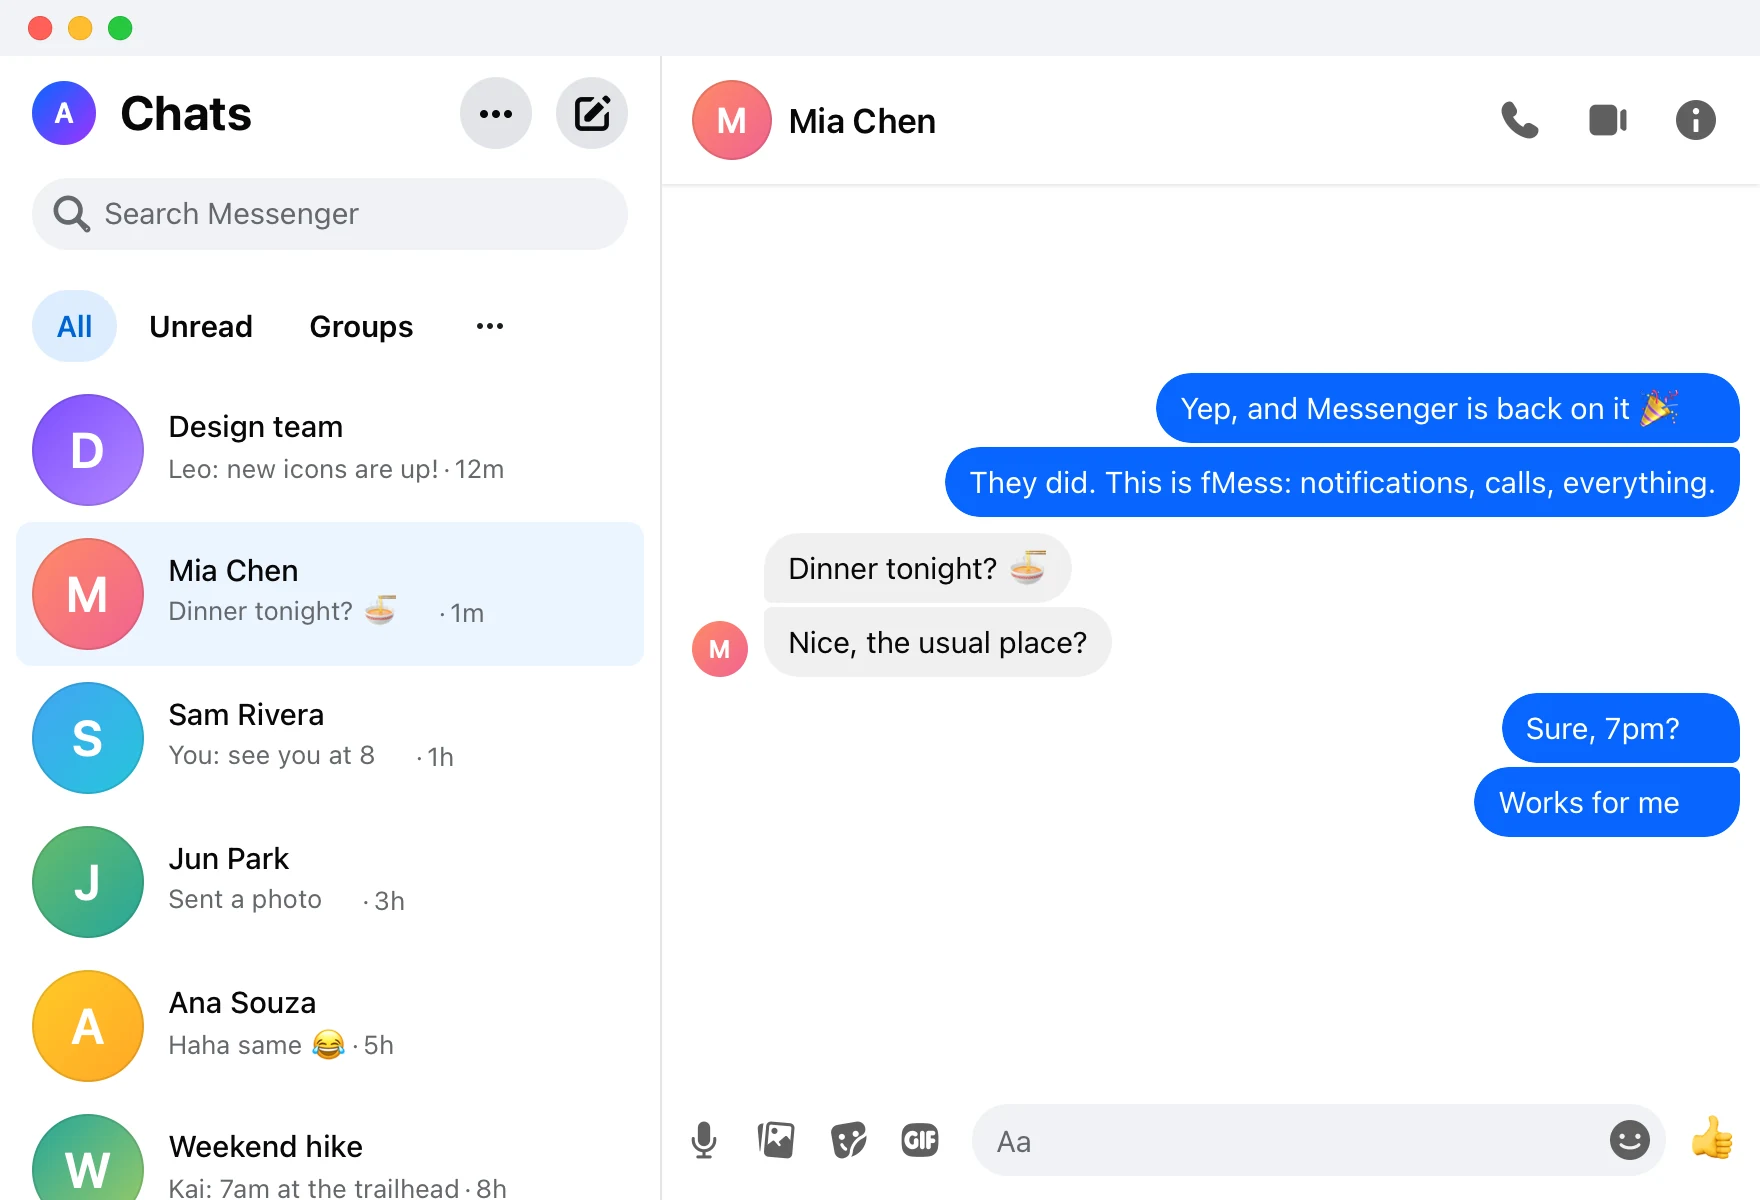
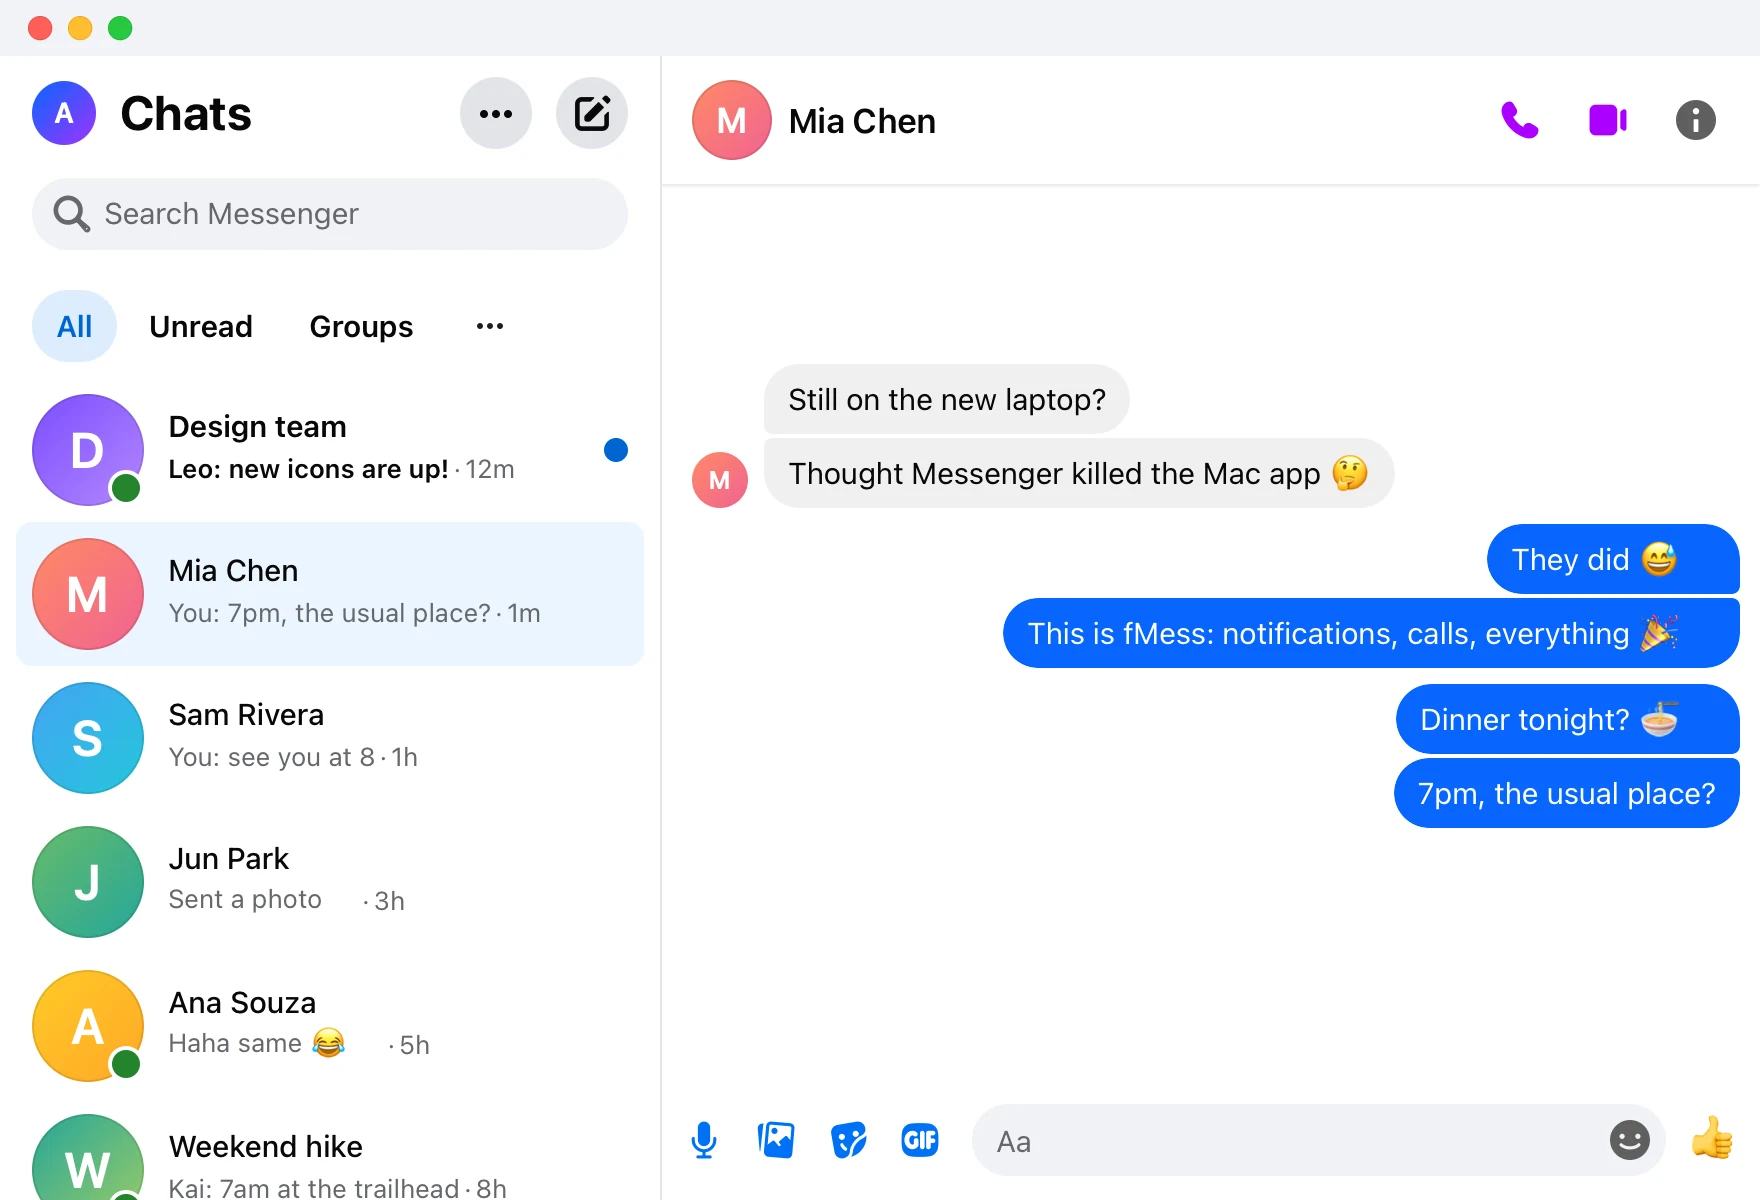
Website: a sliding carousel of the looks, in the page's language
The hero's screenshots slide from Messenger's look to Zalo's and
WhatsApp's and round again, with a bar under the look shown counting down
to the next; the pointer over them holds the turn and a swipe moves it.
The Vietnamese page shows the same chat in Vietnamese. The caption is
rewritten.

diff --git a/site/assets/site.js b/site/assets/site.js
@@ -30,7 +30,7 @@ const TRANSLATIONS = {
     shot_zalo: "Cùng đoạn chat đó với theme Zalo của fMess",
     shot_whatsapp: "Cùng đoạn chat đó với theme WhatsApp của fMess",
     themes_label: "Giao diện",
-    shot_note: "Một đoạn chat, ba giao diện. Ảnh chụp thật, tên đặt cho vui.",
+    shot_note: "Cùng một cuộc trò chuyện, 3 “bộ cánh”: Messenger, Zalo hay WhatsApp chỉ cách nhau một cú click. Ảnh chụp thực tế từ fMess.",
     mock_chats: "Đoạn chat",
     mock_search: "Tìm kiếm trên Messenger",
     mock_dinner: "Tối nay đi ăn không? 🍜",
@@ -167,6 +167,7 @@ const setLanguage = (language) => {
       el.setAttribute(attribute, words[el.dataset[key]] ?? english.get(el)[id]);
     }
   }
+  for (const img of document.querySelectorAll('img[data-shot]')) img.src = `assets/shot-${img.dataset.shot}${language === 'vi' ? '-vi' : ''}.webp`;
   // A page names its own title and description keys (data-title, data-description on body).
   const page = document.body.dataset;
   if (!english.has(document)) english.set(document, document.title);
@@ -242,26 +243,62 @@ document.addEventListener('click', (event) => {
 });
 
 
-// The hero's screenshots: Messenger's look, then the themes, in turn, unless
-// the visitor's system asks for less motion. Pressing a look shows it and
-// stops the turns.
+// The hero's screenshots, a carousel: Messenger's look, then the themes, one
+// sliding in after another (not when the visitor's system asks for less
+// motion). A look's button shows it; the pointer over the pictures holds the
+// turn; a swipe goes forwards or back.
 const shot = document.querySelector('.shot');
 if (shot) {
-  const frames = [...shot.querySelectorAll('.frame')];
+  const DWELL = 4000;
+  const track = shot.querySelector('.track');
+  const looks = track.children.length;
+  // A copy of the first look after the last, so the turn back to it slides on.
+  track.append(track.children[0].cloneNode(true));
   const buttons = [...shot.querySelectorAll('.looks button')];
-  let current = 0;
-  const show = (index) => {
-    current = index;
-    frames.forEach((frame, i) => frame.classList.toggle('on', i === index));
-    buttons.forEach((button, i) => button.setAttribute('aria-pressed', String(i === index)));
+  const still = matchMedia('(prefers-reduced-motion: reduce)').matches;
+  shot.style.setProperty('--dwell', `${DWELL}ms`);
+  let index = 0;
+  let timer = null;
+  const show = (to) => {
+    index = to;
+    track.style.transform = `translateX(${-100 * to}%)`;
+    [...track.children].forEach((img, i) => img.classList.toggle('on', i === to));
+    buttons.forEach((button, i) => {
+      button.setAttribute('aria-pressed', String(i === to % looks));
+      button.classList.remove('run');
+    });
+    if (still || shot.classList.contains('paused')) return;
+    // Restart the bar under the look shown.
+    void buttons[to % looks].offsetWidth;
+    buttons[to % looks].classList.add('run');
+    clearTimeout(timer);
+    timer = setTimeout(() => show(index + 1), DWELL);
   };
-  const turns = matchMedia('(prefers-reduced-motion: reduce)').matches ? null : setInterval(() => show((current + 1) % frames.length), 3500);
-  buttons.forEach((button, i) =>
-    button.addEventListener('click', () => {
-      clearInterval(turns);
-      show(i);
-    }),
-  );
+  track.addEventListener('transitionend', (event) => {
+    if (event.target !== track || index !== looks) return;
+    track.classList.add('snap');
+    show(0);
+    void track.offsetWidth;
+    track.classList.remove('snap');
+  });
+  buttons.forEach((button, i) => button.addEventListener('click', () => show(i)));
+  const viewport = shot.querySelector('.viewport');
+  viewport.addEventListener('pointerenter', () => {
+    shot.classList.add('paused');
+    clearTimeout(timer);
+  });
+  viewport.addEventListener('pointerleave', () => {
+    shot.classList.remove('paused');
+    show(index % looks);
+  });
+  let from = null;
+  viewport.addEventListener('pointerdown', (event) => (from = event.clientX));
+  viewport.addEventListener('pointerup', (event) => {
+    const moved = from === null ? 0 : event.clientX - from;
+    from = null;
+    if (Math.abs(moved) > 40) show(((index % looks) + (moved < 0 ? 1 : looks - 1)) % looks);
+  });
+  show(0);
 }
 
 // Motion (motion.dev, assets/vendor): the hero plays in, sections rise as
@@ -280,7 +317,7 @@ function playMotion({ animate, inView, hover, press, stagger, spring }) {
   // The hero: the words, then the app.
   animate('.hero .eyebrow, .hero h1, .hero .lead, .hero .cta, .hero .meta', rise, { duration: 0.9, ease, delay: stagger(0.08) });
   animate('.shot', { opacity: [0, 1], y: [36, 0], scale: [0.97, 1] }, { duration: 1.1, ease, delay: 0.25 }).then(() =>
-    forever('.shot .frames', { y: [0, -8, 0] }, 8),
+    forever('.shot .viewport', { y: [0, -8, 0] }, 8),
   );
 
   // Sections rise as they come into view; the items of a list follow one another.

diff --git a/site/assets/site.css b/site/assets/site.css
@@ -79,14 +79,21 @@ h1 { font-size: clamp(44px, 6.2vw, 76px); line-height: 1.02; letter-spacing: -0.
 .stage { position: relative; }
 .stage::before { content: ""; position: absolute; inset: 8% -10% -6% 6%; background: var(--ink); filter: blur(90px); opacity: 0.28; border-radius: 50%; z-index: 0; }
 .shot { position: relative; z-index: 1; margin: 0; }
-.frames { position: relative; aspect-ratio: 880 / 600; border-radius: 12px; overflow: hidden; background: #fff; box-shadow: var(--shadow); border: 1px solid var(--line); }
-.frame { position: absolute; inset: 0; width: 100%; height: 100%; display: block; opacity: 0; transition: opacity 0.6s ease; }
-.frame.on { opacity: 1; }
-.shot figcaption { margin-top: 16px; display: flex; flex-wrap: wrap; align-items: center; justify-content: center; gap: 8px 14px; }
+.viewport { position: relative; aspect-ratio: 880 / 600; border-radius: 12px; overflow: hidden; background: #fff; box-shadow: var(--shadow); border: 1px solid var(--line); touch-action: pan-y; }
+.track { display: flex; height: 100%; transition: transform 0.9s cubic-bezier(0.65, 0, 0.35, 1); }
+.track img { flex: 0 0 100%; width: 100%; height: 100%; display: block; user-select: none; -webkit-user-drag: none; transform: scale(0.92); opacity: 0.55; transition: transform 0.9s cubic-bezier(0.65, 0, 0.35, 1), opacity 0.9s; }
+.track img.on { transform: none; opacity: 1; }
+/* Back to the first look without anyone seeing the jump. */
+.track.snap, .track.snap img { transition: none; }
+.shot figcaption { margin-top: 16px; display: flex; flex-direction: column; align-items: center; gap: 10px; text-align: center; }
 .looks { display: inline-flex; gap: 4px; padding: 4px; border-radius: 999px; background: var(--bg-soft); border: 1px solid var(--line); }
-.looks button { font: inherit; font-size: 13px; font-weight: 600; padding: 6px 14px; border: 0; border-radius: 999px; background: transparent; color: var(--muted); cursor: pointer; }
+.looks button { position: relative; overflow: hidden; font: inherit; font-size: 13px; font-weight: 600; padding: 6px 14px; border: 0; border-radius: 999px; background: transparent; color: var(--muted); cursor: pointer; }
 .looks button[aria-pressed="true"] { background: var(--card); color: var(--text); box-shadow: 0 1px 3px rgba(20, 20, 40, 0.15); }
-.shot-note { font-size: 13px; color: var(--muted); }
+/* How long until the next look. */
+.looks button.run::after { content: ""; position: absolute; left: 14px; right: 14px; bottom: 3px; height: 2px; border-radius: 1px; background: var(--ink); transform-origin: left; animation: dwell var(--dwell, 4s) linear forwards; }
+.shot.paused .looks button.run::after { animation-play-state: paused; }
+@keyframes dwell { from { transform: scaleX(0); } to { transform: scaleX(1); } }
+.shot-note { max-width: 34em; font-size: 14px; line-height: 1.5; color: var(--muted); }
 .av { width: 40px; height: 40px; border-radius: 50%; flex: none; display: grid; place-items: center; color: #fff; font-weight: 700; font-size: 15px; }
 .a1 { background: linear-gradient(135deg, #ffb36b, #ff5f8a); }
 .a2 { background: linear-gradient(135deg, #5fd3ff, #4c6bff); }
@@ -171,7 +178,7 @@ footer p { margin: 0; max-width: 44em; }
   .stage { margin-top: 56px; }
   section { padding: 72px 0; }
 }
-@media (prefers-reduced-motion: reduce) { .note { animation: none; } .btn, .frame { transition: none; } }
+@media (prefers-reduced-motion: reduce) { .note { animation: none; } .btn, .track, .track img { transition: none; } }
 
 /* Downloads */
 .choices { display: flex; flex-wrap: wrap; justify-content: center; gap: 10px; }

diff --git a/site/index.html b/site/index.html
@@ -64,15 +64,17 @@
     </div>
 
     <div class="stage">
-      <figure class="shot">
-        <div class="frames">
-          <img class="frame on" src="assets/shot-messenger.webp" width="880" height="600" alt="fMess on a Mac: the chat list and a chat, in Messenger's own look" data-i18n-alt="shot_messenger">
-          <img class="frame" src="assets/shot-zalo.webp" width="880" height="600" alt="The same chat with fMess's Zalo theme" data-i18n-alt="shot_zalo">
-          <img class="frame" src="assets/shot-whatsapp.webp" width="880" height="600" alt="The same chat with fMess's WhatsApp theme" data-i18n-alt="shot_whatsapp">
+      <figure class="shot" aria-roledescription="carousel">
+        <div class="viewport">
+          <div class="track">
+            <img class="on" data-shot="messenger" src="assets/shot-messenger.webp" width="880" height="600" alt="fMess on a Mac: the chat list and a chat, in Messenger's own look" data-i18n-alt="shot_messenger">
+            <img data-shot="zalo" src="assets/shot-zalo.webp" width="880" height="600" alt="The same chat with fMess's Zalo theme" data-i18n-alt="shot_zalo">
+            <img data-shot="whatsapp" src="assets/shot-whatsapp.webp" width="880" height="600" alt="The same chat with fMess's WhatsApp theme" data-i18n-alt="shot_whatsapp">
+          </div>
         </div>
         <figcaption>
           <span class="looks" role="group" aria-label="Themes" data-i18n-label="themes_label"><button type="button" aria-pressed="true">Messenger</button><button type="button" aria-pressed="false">Zalo</button><button type="button" aria-pressed="false">WhatsApp</button></span>
-          <span class="shot-note" data-i18n="shot_note">One chat, three looks. Real screenshots, made-up names.</span>
+          <span class="shot-note" data-i18n="shot_note">Same chat, three looks: Messenger, Zalo or WhatsApp, one click apart. Captured straight from fMess.</span>
         </figcaption>
       </figure>
     </div>
